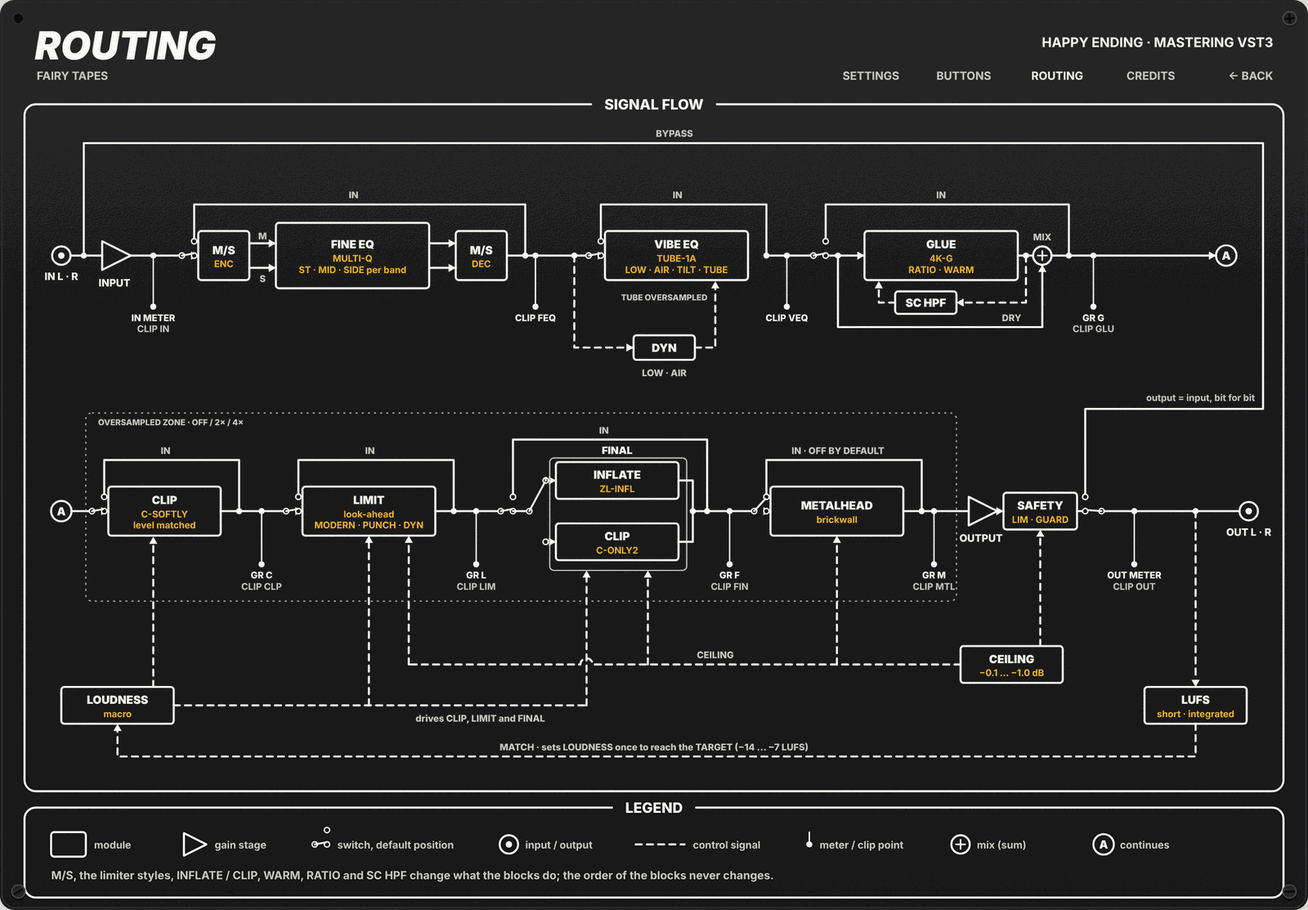
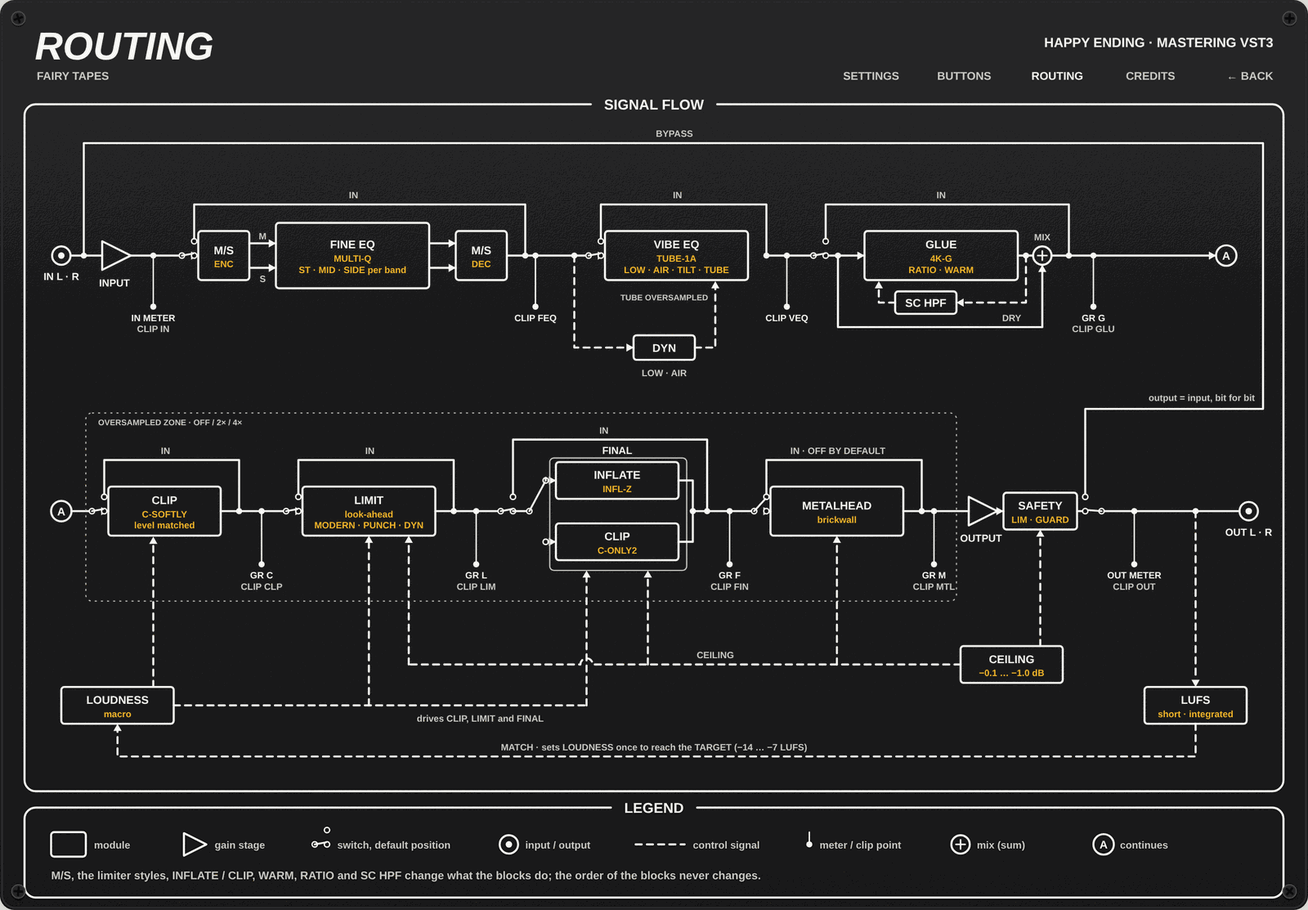
docs(happy-ending): editor readme and aligned spec and plan
README describes the editor, the back tabs, HappyEnding.prefs (with SIZE) and the render tool, and states the known limits. Spec section 13 records the decisions and deviations of the execution; spec and plan are ticked and closed (plan Esito). DESIGN_SYSTEM.md: SIZE is a per-plug-in preference, now in its own sentence. The preview ROUTING tag is INFL-Z and its CREDITS rows match the spec; routing.png is regenerated from it (panel.png is unchanged: the preview front did not change).

diff --git a/src/happy-ending/docs/mockups/happy_ending_rack.html b/src/happy-ending/docs/mockups/happy_ending_rack.html
@@ -813,7 +813,7 @@ txt('Free software: released under the GNU General Public License v3.0 (GPL-3.0)
 txt('The plugin includes GPL-3.0 components, so the combined work is distributed under the same license.',50,176,12,DIMW,'start',700,P);
 txt('Source code and build instructions are available in the project repository.',50,194,12,DIMW,'start',700,P);
 box(24,220,1232,292,'COMPONENTS AND LICENSES','top',P);
-var CRD=[['Multi-Q (Fine EQ, Vibe EQ) · Multi-Comp (Glue)','Dusk Audio','GPL-3.0'],['Airwindows (ClipSoftly: Clip · ClipOnly2: Final)','Chris Johnson','MIT'],['ZLInflator (Final: Inflate)','ZL Audio (zsliu98)','GPL-3.0'],['VST 3 SDK','Steinberg Media Technologies','MIT'],['VSTGUI','Steinberg Media Technologies','BSD-3-Clause'],
+var CRD=[['Multi-Q (Fine EQ, Vibe EQ)','Dusk Audio','GPL-3.0'],['Multi-Comp (Glue)','Dusk Audio','GPL-3.0'],['Airwindows (ClipSoftly, ClipOnly2)','Chris Johnson','MIT'],['ZLInflator (Final: Inflate)','ZL Audio (zsliu98)','GPL-3.0'],['libebur128 (LUFS K-weighting)','Jan Kokemüller','MIT'],['Matched Second Order Digital Filters','Martin Vicanek','published method'],['VST 3 SDK','Steinberg Media Technologies','MIT'],['VSTGUI','Steinberg Media Technologies','BSD-3-Clause'],
   ['Zeyada (tape font)','Kimberly Geswein','OFL-1.1'],['Rock Salt (tape font)','Font Diner','Apache-2.0'],['Homemade Apple (tape font)','Font Diner','Apache-2.0']];
 CRD.forEach(function(c,i){var y=254+i*22;txt(c[0],50,y,13,W,'start',800,P);txt(c[1],350,y,12,DIMW,'start',700,P);txt(c[2],1230,y,12,AMBL,'end',700,P);
   if(i<CRD.length-1)el('path',{d:'M50 '+(y+7)+' H1230',stroke:DIMW,'stroke-width':1,opacity:.25},P);});
@@ -927,7 +927,7 @@ box(24,102,1232,672,'SIGNAL FLOW','top',P);
   L('M292 '+Y2+' H296');RT.block(296,426,Y2,48,'LIMIT',['look-ahead','MODERN · PUNCH · DYN']);RT.inSwitch(280,Y2,444,Y2-50);L('M426 '+Y2+' H490');RT.tap(466,Y2,52,'GR L','CLIP LIM');
   RT.inSwitch(490,Y2,692,Y2-70);L('M502 '+Y2+' H518');RT.ring(518,Y2);RT.ring(534,Y2-30);RT.ring(534,Y2+30);L('M518 '+Y2+' L533 '+(Y2-28),false,1.8);
   L('M534 '+(Y2-32.6)+' V'+(Y2-30)+' M536.6 '+(Y2-30)+' H544');L('M536.6 '+(Y2+30)+' H544');
-  RT.block(544,664,Y2-30,36,'INFLATE',['ZL-INFL']);RT.block(544,664,Y2+30,36,'CLIP',['C-ONLY2']);T('FINAL',604,Y2-56,10,W,'middle',900);
+  RT.block(544,664,Y2-30,36,'INFLATE',['INFL-Z']);RT.block(544,664,Y2+30,36,'CLIP',['C-ONLY2']);T('FINAL',604,Y2-56,10,W,'middle',900);
   RT.e('rect',{x:538,y:Y2-52,width:134,height:110,rx:4,fill:'none',stroke:DIMW,'stroke-width':1.2});
   L('M664 '+(Y2-30)+' H678 V'+(Y2+30)+' H664');RT.dot(678,Y2);L('M678 '+Y2+' H738');RT.tap(714,Y2,52,'GR F','CLIP FIN');
   L('M750 '+Y2+' H754');RT.block(754,884,Y2,48,'METALHEAD',['brickwall']);RT.inSwitch(738,Y2,902,Y2-50,'IN · OFF BY DEFAULT',true);L('M884 '+Y2+' H948');RT.tap(914,Y2,52,'GR M','CLIP MTL');

diff --git a/src/happy-ending/README.md b/src/happy-ending/README.md
@@ -2,11 +2,11 @@
 
 Happy Ending is a mastering chain for the master bus, in VST3 format. It puts the usual finishing tools in one fixed order: a fine EQ, a Pultec-style EQ, a bus compressor, a clipper, a limiter and a final loudness stage, all under one output ceiling. Every control is stepped, the ranges are narrow and the starting values already suit a master, so a few moves are enough to turn a finished mix into a clean, loud master.
 
-**Status:** the audio engine and the VST3 plug-in are done, with their tests (plan Tasks 1-13 and 15). The by-ear tuning of the starting values (Task 14) is still to do, and the delay compensation has been checked by the tests but not yet in a host. The graphic editor is being built (plan `docs/superpowers/plans/2026-10-31-happy-ending-editor.md`); the picture below is the HTML preview it reproduces.
+**Status:** the audio engine, the VST3 plug-in and the graphic editor are done, with their tests, and pass on Linux (editor finished 2026-11-03). Not verified yet: the by-ear tuning of the starting values, the delay compensation in a real host, the editor's colours, the panel flip and the SIZE resize inside a real host, and the Windows and macOS builds (CI builds them on merge to `master`). See [Known limits](#known-limits).
 
 ![Happy Ending panel](docs/images/panel.png)
 
-*The panel, from the HTML preview the editor reproduces (the editor is still being built).*
+*The panel, from the HTML preview the editor reproduces.*
 
 ## When to use it
 
@@ -22,7 +22,7 @@ Bus: stereo in, stereo out. A mono track (mono in, mono out) is processed as dua
 
 ![Happy Ending signal flow](docs/images/routing.png)
 
-The diagram is the ROUTING page of the panel preview (the editor itself is not built yet). The dotted frame is the oversampled zone; the tube of VIBE EQ is oversampled too. SAFETY is the output safety limiter and ceiling guard.
+The diagram is the ROUTING tab of the back of the panel (the HTML preview of it). The dotted frame is the oversampled zone; the tube of VIBE EQ is oversampled too. SAFETY is the output safety limiter and ceiling guard.
 
 1. **INPUT** sets the level going into the chain.
 2. **FINE EQ** makes precise corrections with six stepped bands, each on stereo, mid or side.
@@ -167,6 +167,28 @@ Each oversampler adds 69 samples at 2× and 76 at 4× (at the base rate), and th
 
 BYPASS crossfades over 64 samples to the input delayed by the reported latency, so it is sample-exact once settled and stays aligned with the other tracks. The chain keeps running behind it, so the meters and the LUFS reading stay live. LISTEN and SET are never saved in the state and always start off. The state is versioned: v2 adds the instance decor (wear seed, screw angles, tape texts); v1 projects load with a fresh decor, and a v2 whose decor part is damaged still loads its parameters.
 
+## Editor
+
+The editor opens from the host like any VST3 editor. The panel is 1280 × 890 logical pixels, scaled by the host's scale factor and by the SIZE preference (75, 90, 100 or 125 %, see [Preferences file](#preferences-file)). The window is not freely resizable. Changing SIZE on the back asks the host for the new window at once; if the host refuses, the choice is saved and applies the next time the editor opens.
+
+- **Front:** one control for each stored parameter, laid out as in the preview: service row (INPUT, LEVEL, LOUDNESS with MATCH and TARGET, OUTPUT with BYPASS and CEIL), FINE EQ with the screen beside it, VIBE EQ and GLUE, then CLIP, LIMIT, FINAL and METALHEAD. On a knob, double-click sets the default; click the printed value to type one (Enter or leaving the field confirms, Esc cancels). The stepped selectors (M/S, RATIO, SC HPF, CEIL, TARGET, LIMIT STYLE, FINAL MODE) always show the step the DSP uses. A stage with IN off dims its controls (its own IN stays live); BYPASS dims everything except its button, the LEVEL peak rows, the IN and OUT clip LEDs and the LUFS screen. Under SIDE the HI PASS scale changes to the mono-bass one. In FINAL only the controls of the chosen mode are shown.
+- **LEVEL:** input and output peaks on 15 LEDs over −60 to +6 dB, gain reduction rows for GLUE, CLIP, LIMIT, FINAL and METALHEAD, and nine clip LEDs (IN, FEQ, VEQ, GLU, CLP, LIM, FIN, MTL, OUT). A click on a clip LED clears all of them, also under BYPASS. The LUFS screen shows short-term and integrated loudness (click the integrated value to reset it) and the distance to TARGET, with a green LED within 0.5 LU. The two ACT LEDs of the DYN buttons light while the boost is being pulled back.
+- **Screen:** one shared screen with five views, chosen with the buttons beside it: **EQ** (FINE EQ curve, with the MID and SIDE curves as soon as a band works on them, and the VIBE EQ curve), **GLUE** (level, gain reduction before and after MIX, threshold, scrolling), **CLIP** (transfer curve with a dot that follows the program peaks), **LIMIT** (level, gain reduction, ceiling and effective threshold, scrolling) and **FINAL** (transfer curve against the ceiling, with the dot). The EQ curves are computed by the editor with its own copies of the filters, never on the audio thread. The chosen view is kept while the plug-in instance lives and is not saved in the project (a project opens on EQ).
+- **LISTEN and SET:** the three LISTEN buttons solo one FINE EQ bell; SET is the guided release setting of LIMIT. Both switch off when the editor closes and are never saved.
+- **Wear, tapes and screws:** generated from a seed saved with the plug-in instance. Click a paper tape to write on it (at most 14 printable characters). Drag a screw to turn it. Texts and screw angles are saved with the project (state v2).
+- **Back:** the **BACK →** link at the top right flips the panel (about 0.8 s). Tabs: **SETTINGS** (APPEARANCE: WEAR Off / Light / Heavy, TAPE FONT, VALUES FONT, RE-ROLL for a new instance seed, SIZE; BEHAVIOUR: OVERSAMPLING Off / 2× / 4×, saved with the project), **BUTTONS** (what every kind of button does), **ROUTING** (the signal flow shown above), **CREDITS** (version, licence, third-party components, notices). **← BACK** returns to the front.
+- **Preferences:** the APPEARANCE choices (including SIZE) are per user and per plug-in: they apply to every project and every instance of Happy Ending, and do not change the other plug-ins. OVERSAMPLING and the decor belong to the project.
+
+## Known limits
+
+- **Editor, what the tests cannot reach:** the editor tests run without a window. No test opens a real `CFrame`, so these are unverified: the real UI timer, real keyboard focus and Enter in the text fields, and `close()` with a live frame.
+- **Colours, flip and SIZE:** the colours, the 3D flip of the back and the window resize after a SIZE change have not been tried in a real host. The render tool's PNGs were compared with the preview by eye, not by a program.
+- **Platforms:** the editor tests and the render tool build on Linux only. The editor build on Windows and macOS is not verified here: CI does it on merge to `master`.
+- **Tuning and latency:** the values in `src/tuning.h` are still the starting values of the preview, and the reported latency has been checked by the tests but not in a host (see [Tuning](#tuning)).
+- **Screen:** the FINE EQ curve has no band markers (the preview has them). The CLIP view axis runs to 1.05 and the EQ curve is limited to ±7.5 dB.
+- **Cosmetic:** some printed scales of FINE EQ touch each other (3.15k and 4, 800 and 4, 12.5k and 4), and in the tape font a TARGET of −14 LUFS can read like −4.
+- **Preferences:** the NOTES LAYER, METER HOLD and METER RELEASE rows of the preview are not offered on the back. A `notes` key is stored in the preferences file but draws nothing.
+
 ## Install and build
 
 There is no release yet. Until there is one, build from source or take the CI artifact for your system (`happy-ending-linux`, `happy-ending-windows`, `happy-ending-macos`). Copy `HappyEnding.vst3` into your host's VST3 folder; the folders and the clone instructions are in the [main README](../../README.md).
@@ -178,7 +200,7 @@ cmake -S . -B /tmp/he-build -DCMAKE_BUILD_TYPE=Release -DGPU_NAM_DISABLE_CUDA=ON
 cmake --build /tmp/he-build --target happy_ending -j2
 ```
 
-The bundle `HappyEnding.vst3` is written to `dist/` at the root of the repository. CI (on push and pull requests to `master`) builds all targets and uploads it as `happy-ending-linux`, `happy-ending-windows` and `happy-ending-macos`; it does not run `ctest`.
+Build the targets that use VSTGUI (`happy_ending`, `happy_ending_editor_tests`, `happy_ending_render`) one at a time. The bundle `HappyEnding.vst3` is written to `dist/` at the root of the repository. CI (on push and pull requests to `master`) builds all targets and uploads it as `happy-ending-linux`, `happy-ending-windows` and `happy-ending-macos`; it does not run `ctest`.
 
 ## Tests
 
@@ -188,15 +210,35 @@ cmake --build /tmp/he-build --target happy_ending_params_tests happy_ending_fine
   happy_ending_clip_tests happy_ending_limiter_tests happy_ending_final_tests \
   happy_ending_loudness_tests happy_ending_loudness_macro_tests happy_ending_engine_tests \
   happy_ending_state_tests happy_ending_display_tests happy_ending_controller_tests \
+  happy_ending_ui_tests happy_ending_editor_tests happy_ending_render \
   happy_ending_factory_test happy_ending_processor_level_test happy_ending_state_module_test -j2
 ctest --test-dir /tmp/he-build -R happy_ending --output-on-failure
 ```
 
-One executable per block, with the `RUN_TEST` / `ASSERT_TRUE` harness and synthetic signals. The three module tests (`factory`, `processor_level`, `state_module`) load `dist/HappyEnding.vst3`: build `happy_ending` first, or they are skipped (exit 77). They are not built on Windows. The others link the code directly. The tests cover the parameter table, every DSP block (curves against analog prototypes, M/S, LISTEN, DYN, GLUE reduction and MIX, level-matched CLIP, ceiling guarantees for every LIMIT style, SET, FINAL and METALHEAD, oversampler latency and flatness, BS.1770 reference loudness, LOUDNESS and MATCH), the engine (BYPASS, latency per oversampling, the safety limiter, all-max never above the ceiling, silence after the tail, no allocation in `process`), the saved state (v2: parameters plus the instance decor: wear seed, screw angles, tape texts), the processor and the editor (layout, value texts, screen model, preferences, decor). All tuning values are read from `src/tuning.h`, never copied.
+The tests of the shared editor code are separate (`ctest --test-dir /tmp/he-build -R fairy_ui`, one target each, for example `fairy_ui_editor_size_tests`, `fairy_ui_back_panel_tests`, `fairy_ui_back_view_tests`, `fairy_ui_screw_tests`).
+
+One executable per block, with the `RUN_TEST` / `ASSERT_TRUE` harness and synthetic signals. The three module tests (`factory`, `processor_level`, `state_module`) load `dist/HappyEnding.vst3`: build `happy_ending` first, or they are skipped (exit 77). They are not built on Windows. The others link the code directly. `happy_ending_ui_tests` covers the pure parts of the editor (layout, value texts, screen model, preferences, decor, back tabs, credits); `happy_ending_editor_tests` drives the editor without a window with a real controller as host (Linux only); `happy_ending_render_smoke` checks that the render tool writes a 1280 × 890 PNG. The tests cover the parameter table, every DSP block (curves against analog prototypes, M/S, LISTEN, DYN, GLUE reduction and MIX, level-matched CLIP, ceiling guarantees for every LIMIT style, SET, FINAL and METALHEAD, oversampler latency and flatness, BS.1770 reference loudness, LOUDNESS and MATCH), the engine (BYPASS, latency per oversampling, the safety limiter, all-max never above the ceiling, silence after the tail, no allocation in `process`), the saved state (v2: parameters plus the instance decor: wear seed, screw angles, tape texts), the processor and the editor (layout, value texts, screen model, preferences, decor, controls, LEVEL, wear, tapes, screws, flip, back tabs). All tuning values are read from `src/tuning.h`, never copied.
 
 ## Tuning
 
 Every value to be voiced by ear lives in `src/tuning.h` and only there: VIBE DYN threshold and times, LIMIT release bases, SET threshold, LOUDNESS curve, MATCH step. They are still the starting values of the preview; the by-ear pass in a host (REAPER or Bitwig) is still to do.
+
+## Technical notes
+
+### Preferences file
+
+`FairyTapes/HappyEnding.prefs` in the preferences folder: `$XDG_CONFIG_HOME` (or `~/.config`) on Linux, `~/Library/Application Support` on macOS, `%APPDATA%` on Windows. Keys: `wear=Off|Light|Heavy`, `notes=Show|Hide`, `tapeFont=Zeyada|RockSalt|HomemadeApple`, `valuesFont=Tape|Standard`, `size=75|90|100|125` (default 100). SIZE is a setting of this plug-in only: the other plug-ins keep their own file. Written atomically. A missing or damaged file gives the defaults, and each invalid value falls back on its own.
+
+### Offscreen render
+
+`happy_ending_render` (Linux only) draws the editor to PNG without a host or a window, to compare it by eye with the HTML preview:
+
+```
+cmake --build /tmp/he-build --target happy_ending_render -j2
+/tmp/he-build/src/happy-ending/happy_ending_render /tmp/he-render meters demo scope=60 view=glue
+```
+
+It writes `front.png` and the four tabs of the back, `back_settings.png`, `back_buttons.png`, `back_routing.png` and `back_credits.png`, all 1280 × 890 (SIZE and the host factor only scale the window). Options (full list at the top of `tools/render_editor.cpp`): `view=eq|glue|clip|limit|final`, `meters` (proof values for the LEVEL rows, the LUFS screen and the screen), `demo` (non-flat EQ curves), `ms` (a bell each on MID and SIDE), `scope=<n>` (n timer runs of a synthetic programme, so the histories scroll), `bypass`, `final=inflate|clip`, `stage-off=fine|vibe|glue|clip|limit|final|metal`, `band-off=0..5`, `listen=0..2`, `set`, `os=0..2`, `seed=<n>` (`seed=0` draws the editor before the decor is ready: no wear, tape or screw), `wear=off|light|heavy`, `tapefont=…`, `values=tape|standard`, `tape=<slot>:<text>`, `no-grain`, `cycles=<n>`. The tool does not read the real preferences file: without options it draws Light wear, the Zeyada font and handwritten values, with a fixed seed.
 
 ## Third-party code and licences
 
@@ -223,6 +265,7 @@ The `LICENSE` file of each origin project was checked at the pinned commit on 20
 
 - Design spec: [docs/superpowers/specs/2026-10-21-happy-ending-design.md](../../docs/superpowers/specs/2026-10-21-happy-ending-design.md)
 - Implementation plan (audio engine and VST3 plug-in): [docs/superpowers/plans/2026-10-24-happy-ending.md](../../docs/superpowers/plans/2026-10-24-happy-ending.md)
+- Implementation plan (editor): [docs/superpowers/plans/2026-10-31-happy-ending-editor.md](../../docs/superpowers/plans/2026-10-31-happy-ending-editor.md)
 - HTML preview of the panel: [docs/mockups/happy_ending_rack.html](docs/mockups/happy_ending_rack.html) (open it in a browser)
 - Shared visual rules of the suite: [docs/DESIGN_SYSTEM.md](../../docs/DESIGN_SYSTEM.md)
 - Third-party components of the suite: [THIRD_PARTY.md](../../THIRD_PARTY.md)

diff --git a/docs/superpowers/specs/2026-10-21-happy-ending-design.md b/docs/superpowers/specs/2026-10-21-happy-ending-design.md
@@ -1,8 +1,8 @@
 # Happy Ending — Design
 
 **Data:** 2026-10-21
-**Stato:** decisioni chiuse il 2026-10-24 (brainstorming dal 2026-10-15); motore audio e plugin VST3 realizzati
-**Avanzamento:** motore audio e plugin VST3 fatti (Task 1-13 e 15 del piano `docs/superpowers/plans/2026-10-24-happy-ending.md`); taratura a orecchio in attesa dell'utente (Task 14); editor: piano `docs/superpowers/plans/2026-10-31-happy-ending-editor.md` scritto il 2026-10-31, in corso.
+**Stato:** decisioni chiuse il 2026-10-24 (brainstorming dal 2026-10-15); motore audio, plugin VST3 ed editor grafico realizzati (editor chiuso il 2026-11-03)
+**Avanzamento:** motore audio e plugin VST3 fatti (Task 1-13 e 15 del piano `docs/superpowers/plans/2026-10-24-happy-ending.md`); taratura a orecchio in attesa dell'utente (Task 14); editor grafico fatto (piano `docs/superpowers/plans/2026-10-31-happy-ending-editor.md`, Task 1-16 chiusi il 2026-11-03; scelte e deviazioni nel §13); restano la taratura a orecchio e la verifica in un host reale (§11).
 **Suite:** Fairy Tapes (catena di mastering "tutto dentro")
 **Nome:** Happy Ending (deciso il 2026-10-21); cartella `src/happy-ending/`, bundle `HappyEnding.vst3`
 **Preview:** `src/happy-ending/docs/mockups/happy_ending_rack.html` (anche nella pagina `docs/mockups/index.html`)
@@ -60,7 +60,7 @@ Gli schermi propri di VIBE, GLUE, CLIP, LIMIT e FINAL sono stati tolti: le loro 
   - HIGH SHELF 3, 5, 8, 10, 12, 16, 20 kHz;
   - guadagno ±4 dB a passi di 0,5; Q delle campane Wide / Medium / Narrow / Surgical (0,5 / 1 / 2 / 5) con **Q-coupling** (più guadagno, campana più stretta).
 - **Per banda:** IN; **M/S** (ST, MID, SIDE; niente L/R), selettore a clic con valore sotto; **LISTEN** sulle tre campane.
-- **LISTEN:** esclusivo (una banda sola); le altre bande si attenuano e si bloccano (IN compreso); **si spegne alla chiusura dell'editor e non si salva** nello stato. Suona la campana **sulla propria via** (deciso 2026-10-24): se la banda è su ST si ascolta lo stereo, se è su MID il solo MID, se è su SIDE il solo SIDE; è un passa-banda alla frequenza e al Q effettivo della campana. Con la banda o lo stadio spento LISTEN vale spento (§2).
+- **LISTEN:** esclusivo (una banda sola); le altre bande si attenuano e si bloccano (IN compreso); **si spegne alla chiusura dell'editor e non si salva** nello stato. Suona la campana **sulla propria via** (deciso 2026-10-24): se la banda è su ST si ascolta lo stereo, se è su MID il solo MID, se è su SIDE il solo SIDE; è un passa-banda alla frequenza e al Q effettivo della campana. Con la banda o lo stadio spento LISTEN vale spento (§2). **Dissolvenze (Task 15 del piano dell'editor):** accensione e spegnimento di LISTEN e il cambio di via (ST/MID/SIDE) di una banda sono dissolti su 64 campioni, come le altre variazioni dell'EQ, senza scatti.
 - Bande spente o escluse: comandi attenuati e non cliccabili; resta vivo solo il loro IN.
 - Layout: intestazione a tratto con il nome della banda (come l'EQ di The Stripper).
 
@@ -126,7 +126,7 @@ Gli schermi propri di VIBE, GLUE, CLIP, LIMIT e FINAL sono stati tolti: le loro 
 
 - Regole comuni di `docs/DESIGN_SYSTEM.md`: titoli dei riquadri sul bordo basso, IN nell'angolo in alto a destra, selettori di modo in basso a destra, sigla del motore esterno in alto a sinistra, tre tipi di pulsante (scelte esclusive a faccia accesa ambra; acceso/spento con LED rosso; selettori a ciclo con LED giallo e valore sotto), retro con il template di The Stripper.
 - **Sigle dei blocchi (confermate il 2026-10-24):** FINE EQ `MULTI-Q`, VIBE EQ `TUBE-1A`, GLUE `4K-G`, CLIP `C-SOFTLY`, FINAL `INFL-Z` / `C-ONLY2`; LIMIT e METALHEAD sono motori nostri e non hanno sigla. Sigle dei LED di clip confermate: IN, FEQ, VEQ, GLU, CLP, LIM, FIN, MTL, OUT.
-- **Pannello (deciso 2026-10-24):** **1280 × 890**, su quattro righe: servizio (INPUT, LEVEL, LOUDNESS, OUTPUT); FINE EQ con lo schermo delle curve accanto (viste EQ, GLUE, CLIP, LIMIT, FINAL); VIBE EQ e GLUE affiancati; CLIP, LIMIT, FINAL e METALHEAD affiancati su tutta la larghezza. Compattato dall'utente riga per riga (prima 1000 × 1256, poi 1280 × 1036, 934). Su 1080p al 100 % sta con circa 100 px di margine; per gli schermi piccoli c'è **SIZE** nel retro (75 / 90 / 100 / 125 %, comune a tutti i plugin, `docs/DESIGN_SYSTEM.md`).
+- **Pannello (deciso 2026-10-24):** **1280 × 890**, su quattro righe: servizio (INPUT, LEVEL, LOUDNESS, OUTPUT); FINE EQ con lo schermo delle curve accanto (viste EQ, GLUE, CLIP, LIMIT, FINAL); VIBE EQ e GLUE affiancati; CLIP, LIMIT, FINAL e METALHEAD affiancati su tutta la larghezza. Compattato dall'utente riga per riga (prima 1000 × 1256, poi 1280 × 1036, 934). Su 1080p al 100 % sta con circa 100 px di margine; per gli schermi piccoli c'è **SIZE** nel retro (75 / 90 / 100 / 125 %, preferenza di ciascun plugin, `docs/DESIGN_SYSTEM.md`).
 - **Tutti i comandi sul pannello (deciso 2026-10-24):** il principio a due livelli (davanti i comandi musicali, il resto in un dettaglio a un clic) è stato provato in uno schizzo (1280 × 772) e scartato: nasconde le frequenze del FINE EQ, toglie la vista d'insieme della catena e guadagna meno di SIZE.
 - **FINE EQ:** bande su una fila come in The Stripper, con le manopole alternate su due quote per incastrare le bande vicine: HI PASS una manopola; LOW SHELF e HI SHELF con FREQ e GAIN in diagonale (LOW SHELF: GAIN in alto, FREQ in basso; HI SHELF al contrario); LO MID e HI MID ribaltate (Q in alto al centro, FREQ e GAIN sotto); MID con FREQ e GAIN in alto e Q sotto. Etichette abbreviate: HI PASS, LOW SHELF, LO MID, MID, HI MID, HI SHELF.
 - **GLUE:** IN da solo in alto a destra; WARM, RATIO e SC HPF in fila in basso a destra, a partire dalla colonna dell'IN.
@@ -180,8 +180,8 @@ Nessuna decisione di progetto aperta (chiuse il 2026-10-24: LOUDNESS sopra i com
 - **Verifica della latenza in un host reale** (REAPER, Bitwig): che la compensazione di ritardo dichiarata (69/76 campioni di oversampler più i look-ahead) allinei davvero la traccia, anche cambiando OVERSAMPLING; finora provata solo con i test del motore e del processor.
 - **Licenze:** i file `LICENSE` dei progetti d'origine ai commit fissati sono stati controllati il 2026-11-02 (Dusk Audio GPL-3.0, Airwindows MIT, ZLInflator GPL-3.0, VST 3 SDK MIT); l'elenco va ripreso nei CREDITS dell'editor (piano a parte).
 - **Valore mostrato da RELEASE (deciso dall'utente e fatto il 2026-11-02):** la scala resta relativa (FAST…SLOW, 9 scatti attorno alla release dello stile); il valore mostra i ms reali dello stile corrente, base × 2^((k − 4)/3), lo stesso testo che l'editor stampa sotto la manopola (`releaseText` di `ui/readouts.h`, usato anche da `ui/value_text.h` per l'host). Il controller accetta anche un numero scritto (lo scatto più vicino). Test `testLimitReleaseShowsTheStyleMilliseconds`.
-- **Scheda ROUTING della preview allineata al motore (2026-11-02):** rilevatore di GLUE in feedback (uscita compressa, SC HPF), cornice di FINAL raggiunta da LOUDNESS e CEILING (INFLATE compreso), zona di oversampling tratteggiata (più "TUBE OVERSAMPLED" nel VIBE EQ), blocco SAFETY (limiter di sicurezza e guardia del tetto) dopo OUTPUT con CEILING. Da riportare nella scheda ROUTING dell'editor (piano `2026-10-31-happy-ending-editor.md`).
-- **Editor grafico:** piano `docs/superpowers/plans/2026-10-31-happy-ending-editor.md` (Task 1-16), scelte tecniche nel §13; in corso.
+- **Scheda ROUTING della preview allineata al motore (2026-11-02):** rilevatore di GLUE in feedback (uscita compressa, SC HPF), cornice di FINAL raggiunta da LOUDNESS e CEILING (INFLATE compreso), zona di oversampling tratteggiata (più "TUBE OVERSAMPLED" nel VIBE EQ), blocco SAFETY (limiter di sicurezza e guardia del tetto) dopo OUTPUT con CEILING. Riportata nella scheda ROUTING dell'editor (Task 14 del piano dell'editor).
+- **Editor grafico: fatto (2026-11-03).** Piano `docs/superpowers/plans/2026-10-31-happy-ending-editor.md` (Task 1-16), scelte tecniche e deviazioni dalla preview nel §13. Non verificato: nessun test apre un vero `CFrame` (timer reale, focus e Invio reali dei campi di testo, `close()` con un frame vivo), colori, flip del retro e ridimensionamento SIZE non provati in un host reale, compilazione su Windows e macOS solo nella CI al merge verso `master`. Piccoli difetti dei render da decidere con l'utente: ultimo punto del §13.
 
 ## 12. Storia del brainstorming
 
@@ -202,3 +202,9 @@ Approvate dall'utente il 2026-10-31 con il piano dell'editor (SIZE e retro corre
 - **Comandi del pannello (Task 9 del piano dell'editor):** il valore sotto le manopole si stampa a R + 36 dal centro del cappuccio come nella preview (la serigrafia comune lo mette a R + 39,5, dove sotto le manopole basse del FINE EQ tocca le etichette dei pulsanti); nomi a R + 24 (preview R + 22) ed etichette dei pulsanti a 11 px (preview 10) restano quelli comuni. I selettori M/S stampano ST / MID / SIDE come nella preview (deciso dall'utente il 2026-10-31), mentre l'host mostra i suoi testi (Stereo / Mid / Side); il campo di testo accetta entrambe le forme. LIMIT RELEASE stampa il tempo vero in ms del suo stile (`releaseText`, anche nel campo di testo e nell'host, dal commit abb0ecf). I pulsanti delle viste sono una sola scelta a faccia accesa con facce 34 × 20 (preview 34 × 18). I LED di LISTEN mostrano la campana davvero ascoltata (spenti con la banda o il FINE EQ spenti).
 - **LEVEL (Task 10 del piano dell'editor):** i picchi IN e OUT sono pubblicati sulla scala della suite, −60…+6 dB (`display.h`, `kPeakDisplayMaxDb`), quindi le righe di picco accendono tutti i 15 LED: 0 dB è il 14°, +6 dB il 15°. Le righe GR sono ambra con gli ultimi quattro LED rossi (la barra comune; la preview ne arrossava tre) e una riga attenuata (BYPASS o IN dello stadio spento) non mostra riduzione, come la preview. Un clic su un LED di clip o sul valore integrato scrive i trigger nascosti come una modifica dell'host.
 - **Parametri a scelta per l'host:** restano parametri a passi con i testi dati da `getParamStringByValue` (niente `StringListParameter`): l'editor mostra comunque i valori, e gli host leggono già i testi.
+- **Schermo (Task 6 e 11):** differenze volute dalla preview: l'asse della vista CLIP va da 0 a 1,05 e la curva EQ è limitata a ±7,5 dB. La curva del FINE EQ non ha ancora i segni delle bande (la preview li ha). La vista LIMIT disegna anche una linea tratteggiata sottile alla soglia effettiva.
+- **LEVEL e bypass (Task 10):** i LED di clip restano cliccabili anche con BYPASS acceso: un clic li azzera tutti, IN e OUT compresi.
+- **Usura e caratteri (Task 12):** il seme 0 del decor vuol dire "decor non pronto": finché non c'è un seme (processore, stato o modifica) non si disegnano segni, nastri e viti. I valori sotto le manopole e dei selettori sono nel carattere del nastro con l'altezza delle cifre normalizzata; lo schermo LUFS resta nel carattere standard (è una lettura di strumento, con il vero segno meno e il trattino). Lo strumento di render ignora il file di preferenze vero (usura Light, carattere Zeyada, valori a mano) e usa un seme fisso.
+- **Retro (Task 13):** le righe segnaposto della preview NOTES LAYER, METER HOLD e METER RELEASE non ci sono (non cambierebbero nulla; la chiave `notes` resta nel file delle preferenze e non disegna niente). Il comando OVERSAMPLING sta a x 830 e la sua descrizione è stretta; il suggerimento di VALUES FONT è "values on the knobs"; la riga della latenza è una nota propria del plugin.
+- **Retro (Task 14):** nella scheda ROUTING la sigla di FINAL è INFL-Z (la preview diceva ZL-INFL ed è stata corretta). I testi dei pulsanti MODERN / PUNCH / DYN della scheda BUTTONS sono accorciati per stare nel riquadro. CREDITS ha Multi-Q e Multi-Comp su due righe e le righe di libebur128 e di Vicanek (come §8 e `THIRD_PARTY.md`; anche la preview è allineata). La legenda del ROUTING non ha il simbolo MIX (il nodo è etichettato MIX).
+- **Difetti minori ancora da decidere con l'utente (Task 12, visti di nuovo nei render finali):** scale del FINE EQ che si toccano (3,15k e 4, 800 e 4, 12,5k e 4), valori della riga bassa che toccano le etichette, TARGET "-14 LUFS" in Zeyada letto come "-4", usura che attraversa il riquadro LUFS ma non lo schermo EQ.

diff --git a/docs/DESIGN_SYSTEM.md b/docs/DESIGN_SYSTEM.md
@@ -50,7 +50,7 @@ Disegnati dal codice. Usura guidata dalla forma: bordo consumato sul lato del di
 
 ## Retro del pannello
 
-**Obbligatorio per tutti i plugin della suite** (regola dell'utente, 2026-10-15): ogni editor ha il retro con almeno le schede **SETTINGS**, **ROUTING** (dal 2026-10-23, vedi sotto) e **CREDITS**, anche nelle preview, fin dalla prima bozza. **Il retro ha un template grafico fisso, quello di `stripper_rack.html`; cambiano solo i contenuti** (e la geometria, perché ogni plugin ha la sua dimensione di pannello, anche per il retro: vedi sotto): titolo grande = scheda corrente (corsivo, 38 px, in alto a sinistra) con "FAIRY TAPES" sotto; in alto a destra la riga "NOME PLUGIN · DESCRIZIONE"; sulla riga di "FAIRY TAPES" i link alle schede (SETTINGS, BUTTONS, CREDITS: attiva in bianco, le altre in grigio) e **← BACK**; riquadri con il titolo sul bordo alto. CREDITS: riquadro col nome del plugin (versione e licenza), COMPONENTS AND LICENSES (nome, autore, licenza in ambra, righe separate), NOTICES. SETTINGS: APPEARANCE a sinistra (saved for you, in every project; righe e controlli segmentati uguali per tutti), con la riga **SIZE** (dimensione dell'editor: 75 / 90 / 100 / 125 %, default 100 %; preferenza dell'utente valida per ogni progetto; si moltiplica per il fattore di scala dell'host; decisa il 2026-10-24 per tutti i plugin, nata dal pannello alto di Happy Ending). **Ogni plugin ha la sua SIZE, salvata nel proprio file di preferenze** (chiave `size=75|90|100|125`, niente file comune; deciso il 2026-10-31): `fairy_ui/editor_size.h` dà solo la matematica (`EditorSize`, `sizeFactor`, `scaledSize`, `frameZoom`, `sizeLabel`, `sizeKey`, `parseSizeLabel`), BEHAVIOUR a destra (saved with the project; contenuti del plugin), NOTES sotto. BUTTONS: WHAT THE BUTTONS DO. Non si inventa un retro nuovo (regola dell'utente, 2026-10-15). **La geometria del retro segue la dimensione di ciascun plugin** (2026-10-31): `BackLayout` contiene altezza e larghezza del pannello, il bordo destro dell'intestazione e di ← BACK, la destra dell'ultimo link delle schede e il loro passo, i riquadri (ognuno con la sua x e larghezza: colonne APPEARANCE e BEHAVIOUR, riquadri a tutta larghezza) e le colonne dei crediti; `kTall` e `kShort` (1000 px di larghezza) restano com'erano. Un plugin con un pannello diverso definisce il suo `BackLayout` e lo passa a `BackView`; il template (disposizione, font, ordine) resta quello. Una sola voce **BACK →** davanti; il retro (flip 3D) ha le schede **SETTINGS** e **CREDITS** e **← BACK**. Preferenze di aspetto per l'utente (file globale), impostazioni di comportamento nel progetto. Credits con le licenze di tutti i componenti di terze parti e gli avvisi di legge.
+**Obbligatorio per tutti i plugin della suite** (regola dell'utente, 2026-10-15): ogni editor ha il retro con almeno le schede **SETTINGS**, **ROUTING** (dal 2026-10-23, vedi sotto) e **CREDITS**, anche nelle preview, fin dalla prima bozza. **Il retro ha un template grafico fisso, quello di `stripper_rack.html`; cambiano solo i contenuti** (e la geometria, perché ogni plugin ha la sua dimensione di pannello, anche per il retro: vedi sotto): titolo grande = scheda corrente (corsivo, 38 px, in alto a sinistra) con "FAIRY TAPES" sotto; in alto a destra la riga "NOME PLUGIN · DESCRIZIONE"; sulla riga di "FAIRY TAPES" i link alle schede (SETTINGS, BUTTONS, CREDITS: attiva in bianco, le altre in grigio) e **← BACK**; riquadri con il titolo sul bordo alto. CREDITS: riquadro col nome del plugin (versione e licenza), COMPONENTS AND LICENSES (nome, autore, licenza in ambra, righe separate), NOTICES. SETTINGS: APPEARANCE a sinistra (saved for you, in every project; righe e controlli segmentati uguali per tutti), con la riga **SIZE**; BEHAVIOUR a destra (saved with the project; contenuti del plugin); NOTES sotto. BUTTONS: WHAT THE BUTTONS DO. **SIZE** è la dimensione dell'editor (75 / 90 / 100 / 125 %, default 100 %; si moltiplica per il fattore di scala dell'host; riga decisa il 2026-10-24 per tutti i plugin, nata dal pannello alto di Happy Ending). **È una preferenza di ciascun plugin, salvata nel file di preferenze di quel plugin** (chiave `size=75|90|100|125`, niente file comune; deciso il 2026-10-31), valida per ogni progetto e istanza di quel plugin: `fairy_ui/editor_size.h` dà solo la matematica (`EditorSize`, `sizeFactor`, `scaledSize`, `frameZoom`, `sizeLabel`, `sizeKey`, `parseSizeLabel`). Non si inventa un retro nuovo (regola dell'utente, 2026-10-15). **La geometria del retro segue la dimensione di ciascun plugin** (2026-10-31): `BackLayout` contiene altezza e larghezza del pannello, il bordo destro dell'intestazione e di ← BACK, la destra dell'ultimo link delle schede e il loro passo, i riquadri (ognuno con la sua x e larghezza: colonne APPEARANCE e BEHAVIOUR, riquadri a tutta larghezza) e le colonne dei crediti; `kTall` e `kShort` (1000 px di larghezza) restano com'erano. Un plugin con un pannello diverso definisce il suo `BackLayout` e lo passa a `BackView`; il template (disposizione, font, ordine) resta quello. Una sola voce **BACK →** davanti; il retro (flip 3D) ha le schede **SETTINGS** e **CREDITS** e **← BACK**. Preferenze di aspetto per l'utente (nel file di preferenze del plugin), impostazioni di comportamento nel progetto. Credits con le licenze di tutti i componenti di terze parti e gli avvisi di legge.
 
 **Scheda ROUTING (obbligatoria per tutti i plugin, regola dell'utente del 2026-10-23):** il retro ha anche la scheda **ROUTING**, che disegna il percorso del segnale tra i moduli come lo schema a blocchi dei manuali dell'outboard. Ordine dei link: SETTINGS, le schede proprie del plugin, ROUTING, CREDITS. **Il disegno è fisso** (deciso dall'utente il 2026-10-23): uno schema stampato che non segue lo stato dei pulsanti. Linguaggio comune: segnale da sinistra a destra con linee bianche continue (2 px) e frecce sugli ingressi dei blocchi; un modulo è un rettangolo col nome del pannello frontale (sigla del blocco in ambra sotto il nome, se esiste); stadi di guadagno come triangoli; ingressi e uscite come prese (cerchio con anello) con l'etichetta; il pulsante IN come deviatore disegnato sopra il blocco, con la linea che lo scavalca; il Bypass globale come deviatore che collega direttamente la presa d'ingresso a quella d'uscita; le scelte esclusive (motori o modi alternativi) come blocchi in parallelo con un selettore; le linee di controllo (sidechain, rilevatori, ducking) tratteggiate; i punti di misura (meter, LED di clip) come piccoli cerchi pieni su una diramazione con l'etichetta del meter. Riquadro **SIGNAL FLOW** in alto, riquadro **LEGEND** sotto, con i simboli usati. L'ordine dei blocchi è quello del motore audio, non quello del pannello: dove i due differiscono vale il motore.
 
